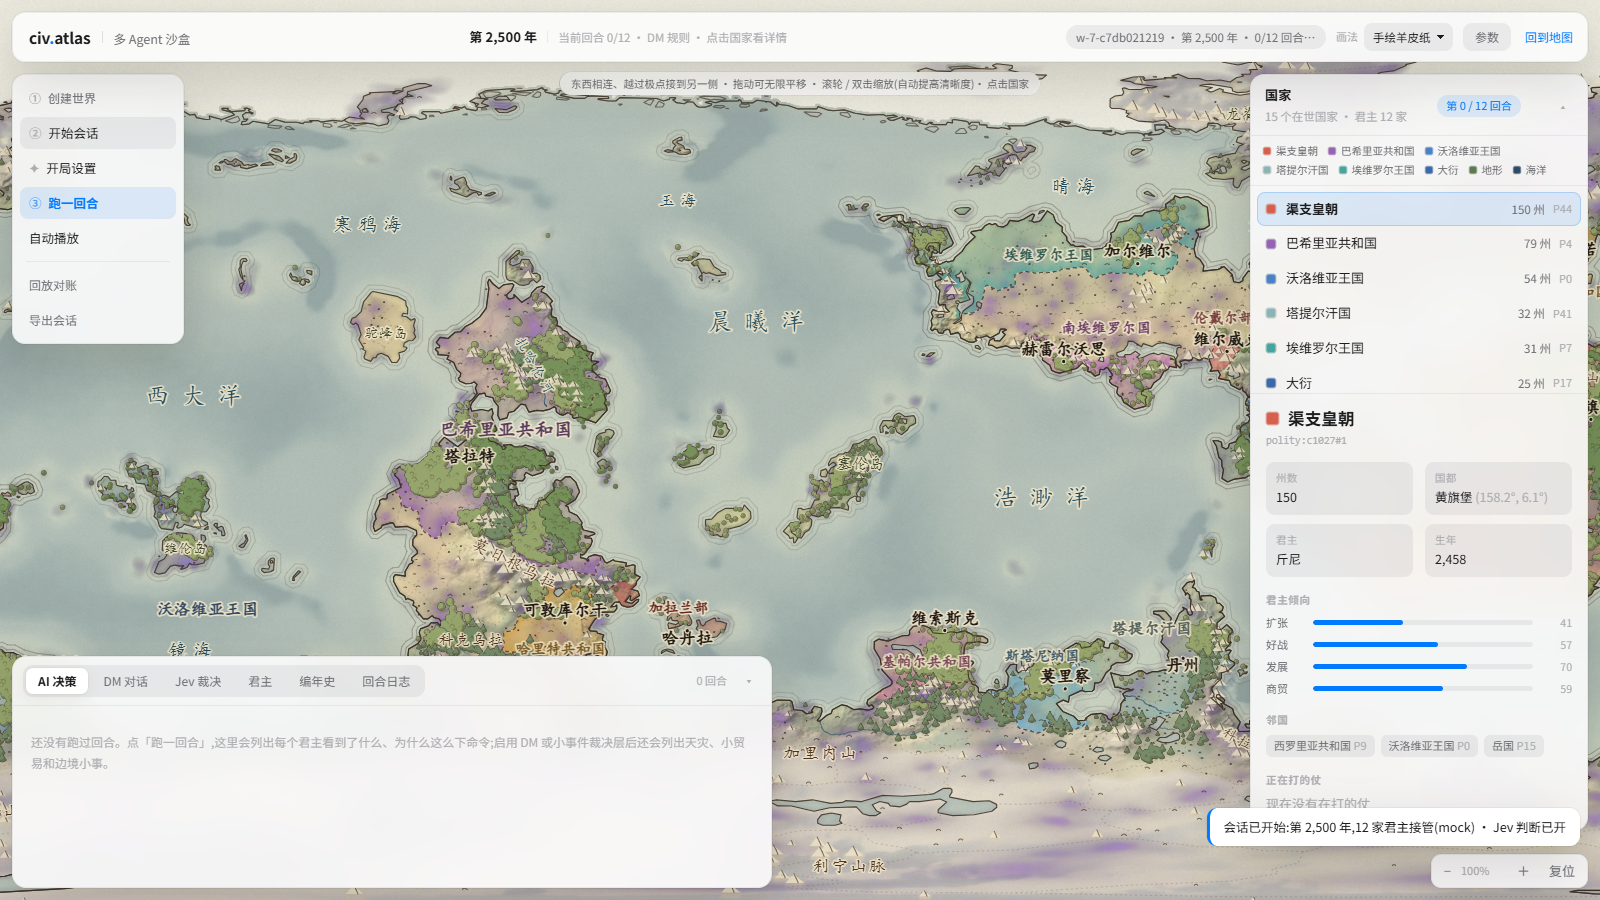
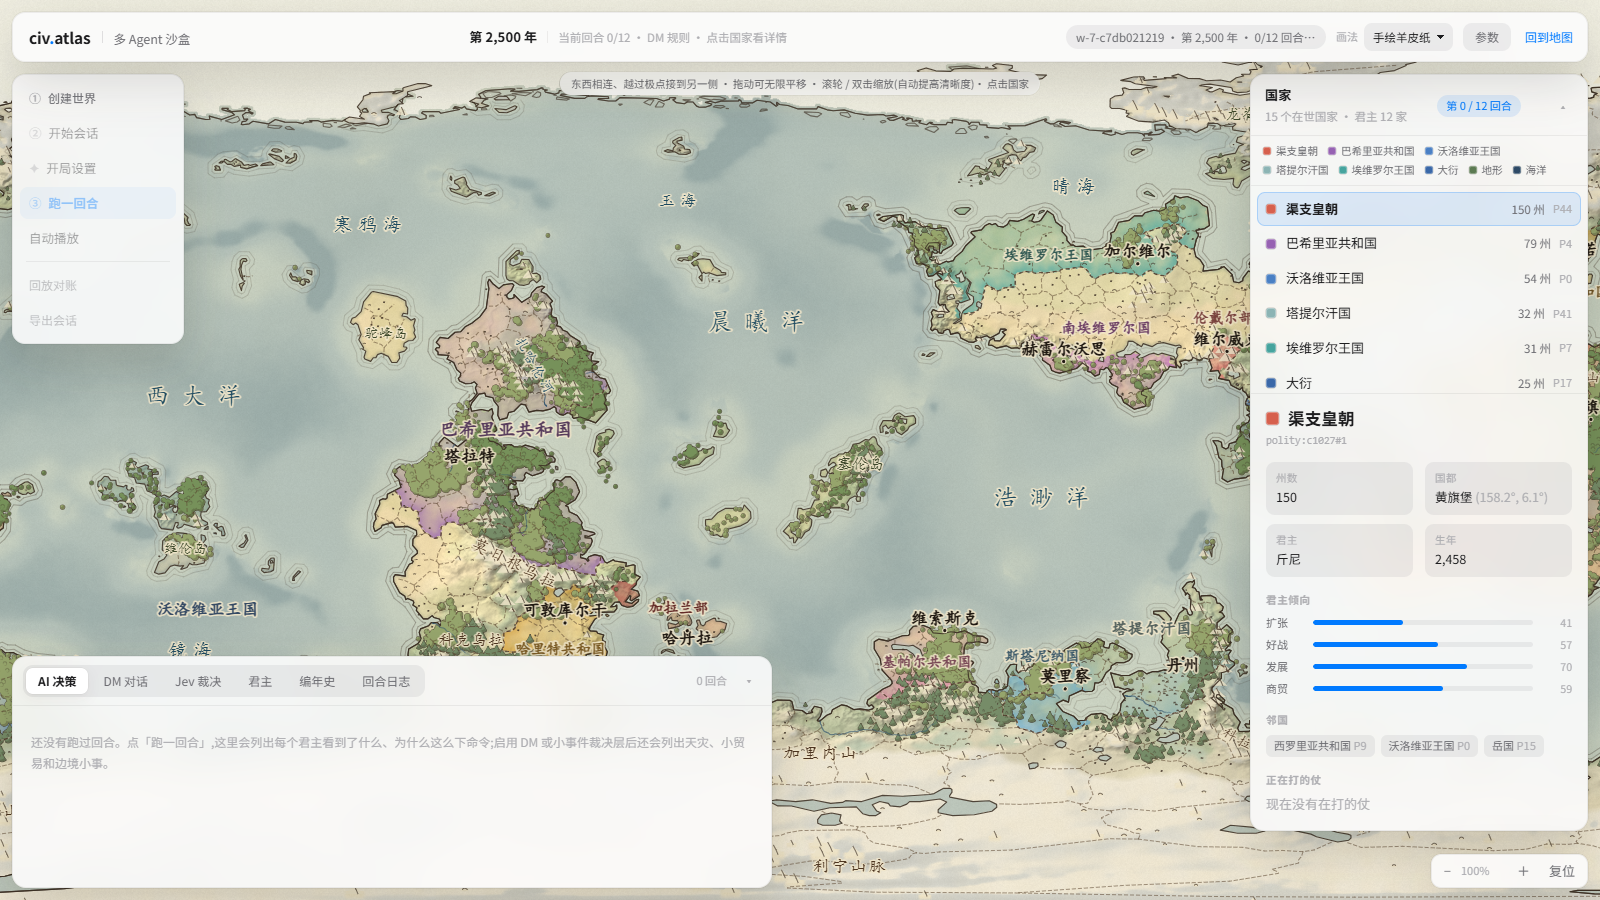
polish(viewer): 地区线加深到 1px/更明显虚线，补 250% 特写截图
- mcp/viewer/regions.js：州界样式由 0.7px/dash[2,3] 提到 1.0px/dash[4,2]，不透明度 手绘 .55 / 地理图·卫星 .52 / 白模·经典 .42，避免和国界线（墨色长虚线）混淆。
- docs/验收-2026-11-14-第三轮：01 重拍（100%），新增 07-regionlines-250.png 250% 特写；README 同步样式数值与已知限制说明。

diff --git a/mcp/viewer/regions.js b/mcp/viewer/regions.js
@@ -54,13 +54,13 @@
    */
   function regionLineStyle(style) {
     if (style === 'geo' || style === 'satellite') {
-      return { stroke: 'rgba(118,134,150,0.34)', width: 0.7, dash: [2, 3], lineCap: 'round', lineJoin: 'round' };
+      return { stroke: 'rgba(110,128,148,0.52)', width: 1.0, dash: [4, 2], lineCap: 'round', lineJoin: 'round' };
     }
     if (style === 'white' || style === 'classic') {
-      return { stroke: 'rgba(90,82,70,0.22)', width: 0.7, dash: [2, 3], lineCap: 'round', lineJoin: 'round' };
+      return { stroke: 'rgba(90,82,70,0.42)', width: 1.0, dash: [4, 2], lineCap: 'round', lineJoin: 'round' };
     }
     // fantasy(默认手绘风):暖褐色,和国界的墨线一个色系,压淡
-    return { stroke: 'rgba(90,70,48,0.30)', width: 0.7, dash: [2, 3], lineCap: 'round', lineJoin: 'round' };
+    return { stroke: 'rgba(88,66,44,0.55)', width: 1.0, dash: [4, 2], lineCap: 'round', lineJoin: 'round' };
   }
 
   /**

diff --git a/docs/验收-2026-11-14-第三轮/README.md b/docs/验收-2026-11-14-第三轮/README.md
@@ -9,7 +9,7 @@
   - 结果随 `/api/map/owners` 的 `regions` 字段下发（与既有 `borders` 并列，整张 PNG 仍 319,440 chars）。
   - seed=7 / cells=34043：**1613 条线 / 5581 点 / JSON 83,417B**（跨 180° 12 条，前端在另一侧补画一份）。
 - 前端 `mcp/viewer/regions.js`：`drawRegionLines(g, opts)`，坐标换算与 `strokeLines` 一致、支持 odd 跨极镜像、按 bbox 做跨 180° 平移、一次 stroke。
-  - 样式：手绘 `rgba(90,70,48,0.30)`；地理图/卫星 `rgba(118,134,150,0.34)`；白模/经典 `rgba(90,82,70,0.22)`；均为 0.7px 虚线 `[2,3]`，绘制在国界线（`drawOwnerBorders`）之前，不会盖住国界。
+  - 样式：手绘 `rgba(88,66,44,0.55)`；地理图/卫星 `rgba(110,128,148,0.52)`；白模/经典 `rgba(90,82,70,0.42)`；线宽 1.0px、虚线 `[4,2]`（round cap/join），绘制在国界线（`drawOwnerBorders`）之前，不会盖住国界；缩放时线宽按屏幕像素恒定。
 
 ## 2. 地区悬停标签
 
@@ -56,7 +56,7 @@
 
 - 开局定制只在第一回合前可用；应用后 `verifySession` 回放会因 civ 被改动而失配（属预期）。
 - 新建国家的国名/颜色在第一回合结算时会被引擎按全图规则重算（州数与角色卡不受影响）；首回合前该国 `ruler` 可能为 null（引擎在首回合补）。
-- 地区线 1613 条在 100% 缩放下略密（可按需再降不透明度或只在 ≥某缩放显示）。
+- 地区线 1613 条在 100% 缩放下仍偏细密（已按用户要求加粗到 1px/更明显虚线，如觉得过密可再降）；州界与国界同时存在时层次靠线型区分（国界=墨色长虚线，州界=褐色短虚线）。
 - 悬停标签有 120ms 延迟节流；位于海面/图外时不显示。
 - DM/Jev 文本是摘要（原始 prompt 不回落盘），完整内容仅有 reason/decisions/notes。
 
@@ -64,6 +64,7 @@
 
 - `01-regionlines-100.png`：手绘 100%，地区线（州界）与国界线并存。
 - `02-regionlines-659.png`：659% 地区线特写。
+- `07-regionlines-250.png`：250% 地区线（国界内州界虚线）特写。
 - `03-region-tooltip-659.png`：悬停地区标签（州名/所属国/群落/面积/海拔/河流/治所）。
 - `04-dm-tab.png`：DM 对话页签。
 - `05-jev-tab.png`：Jev 裁决页签。
